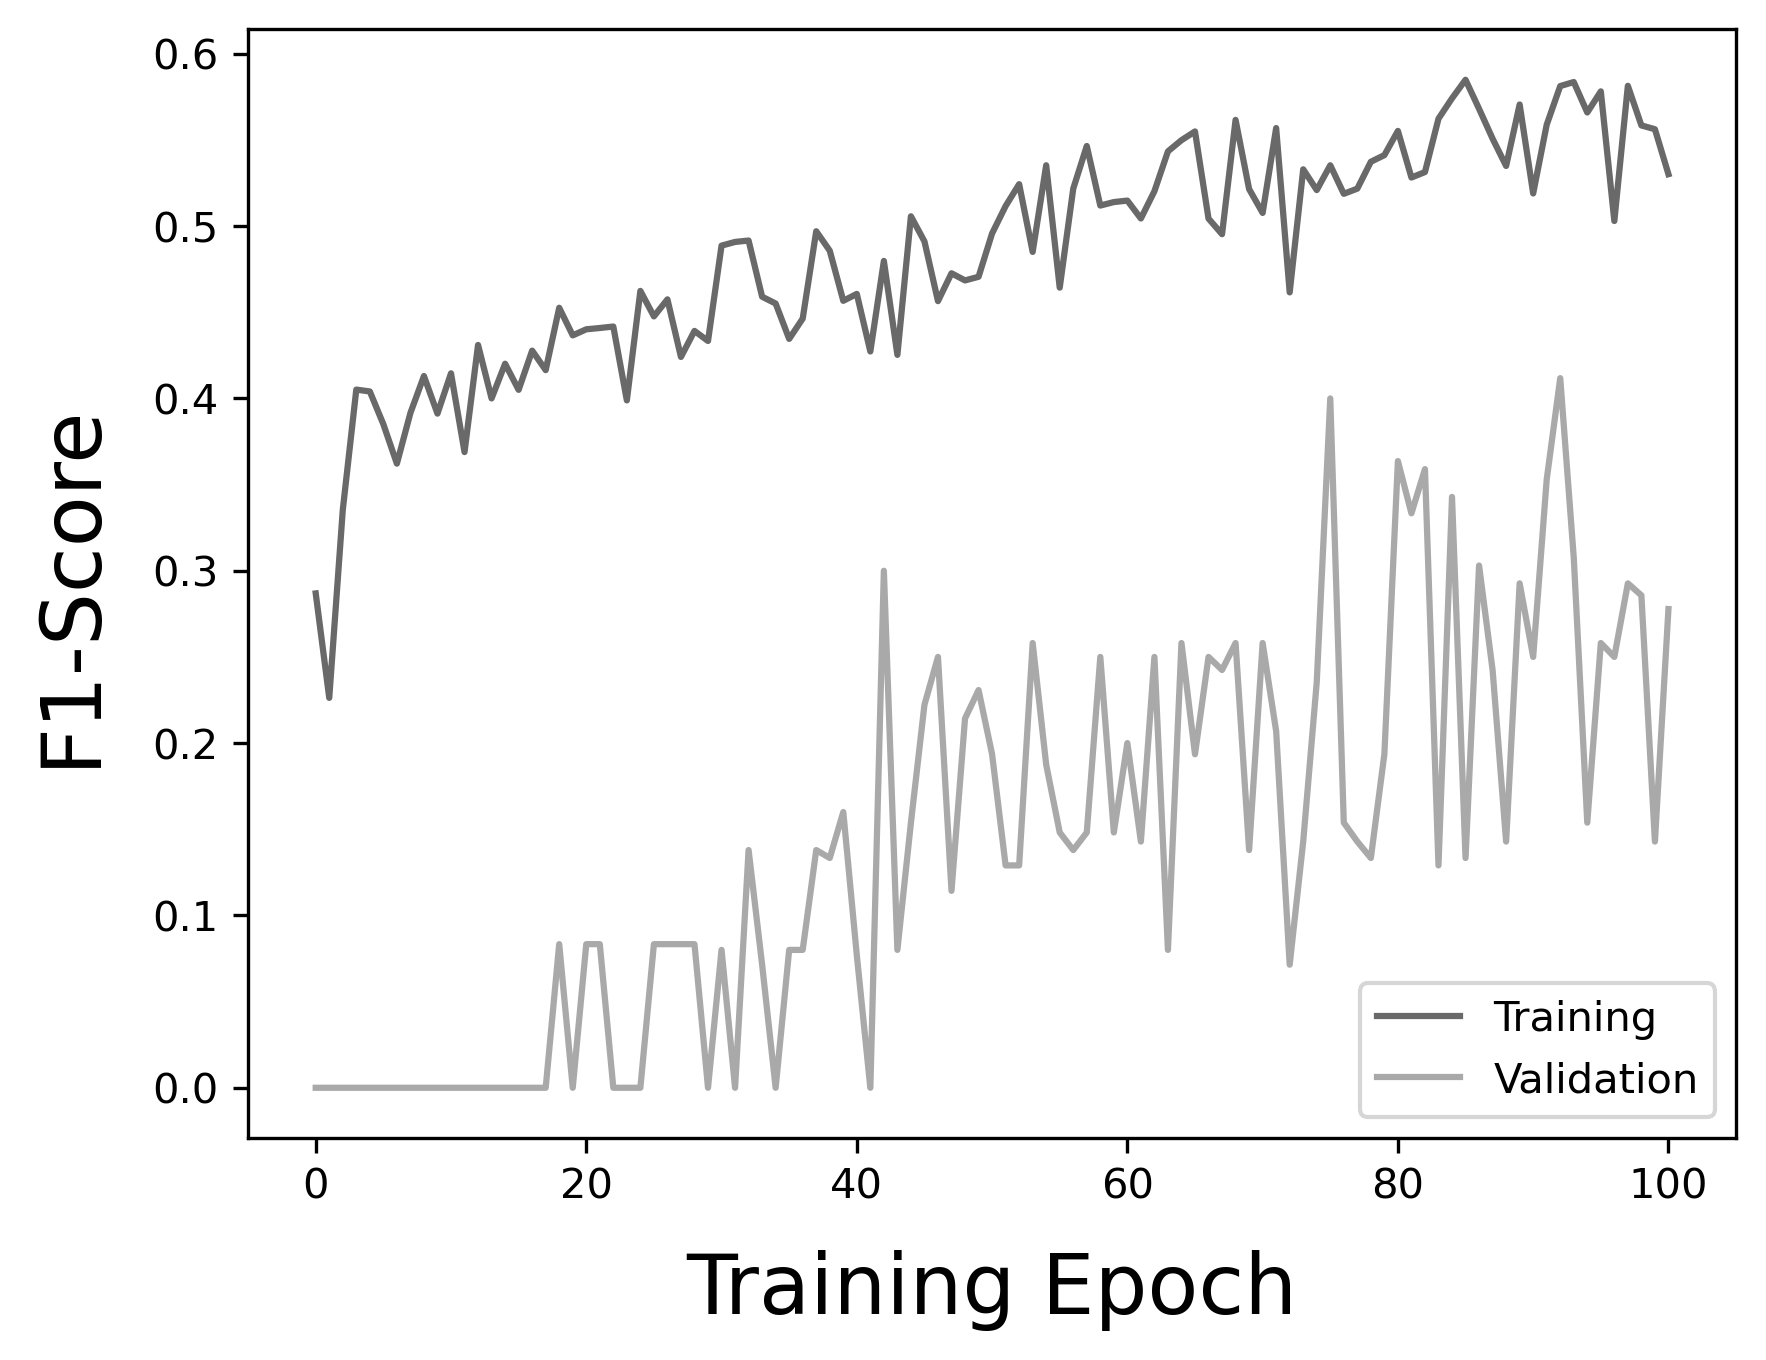
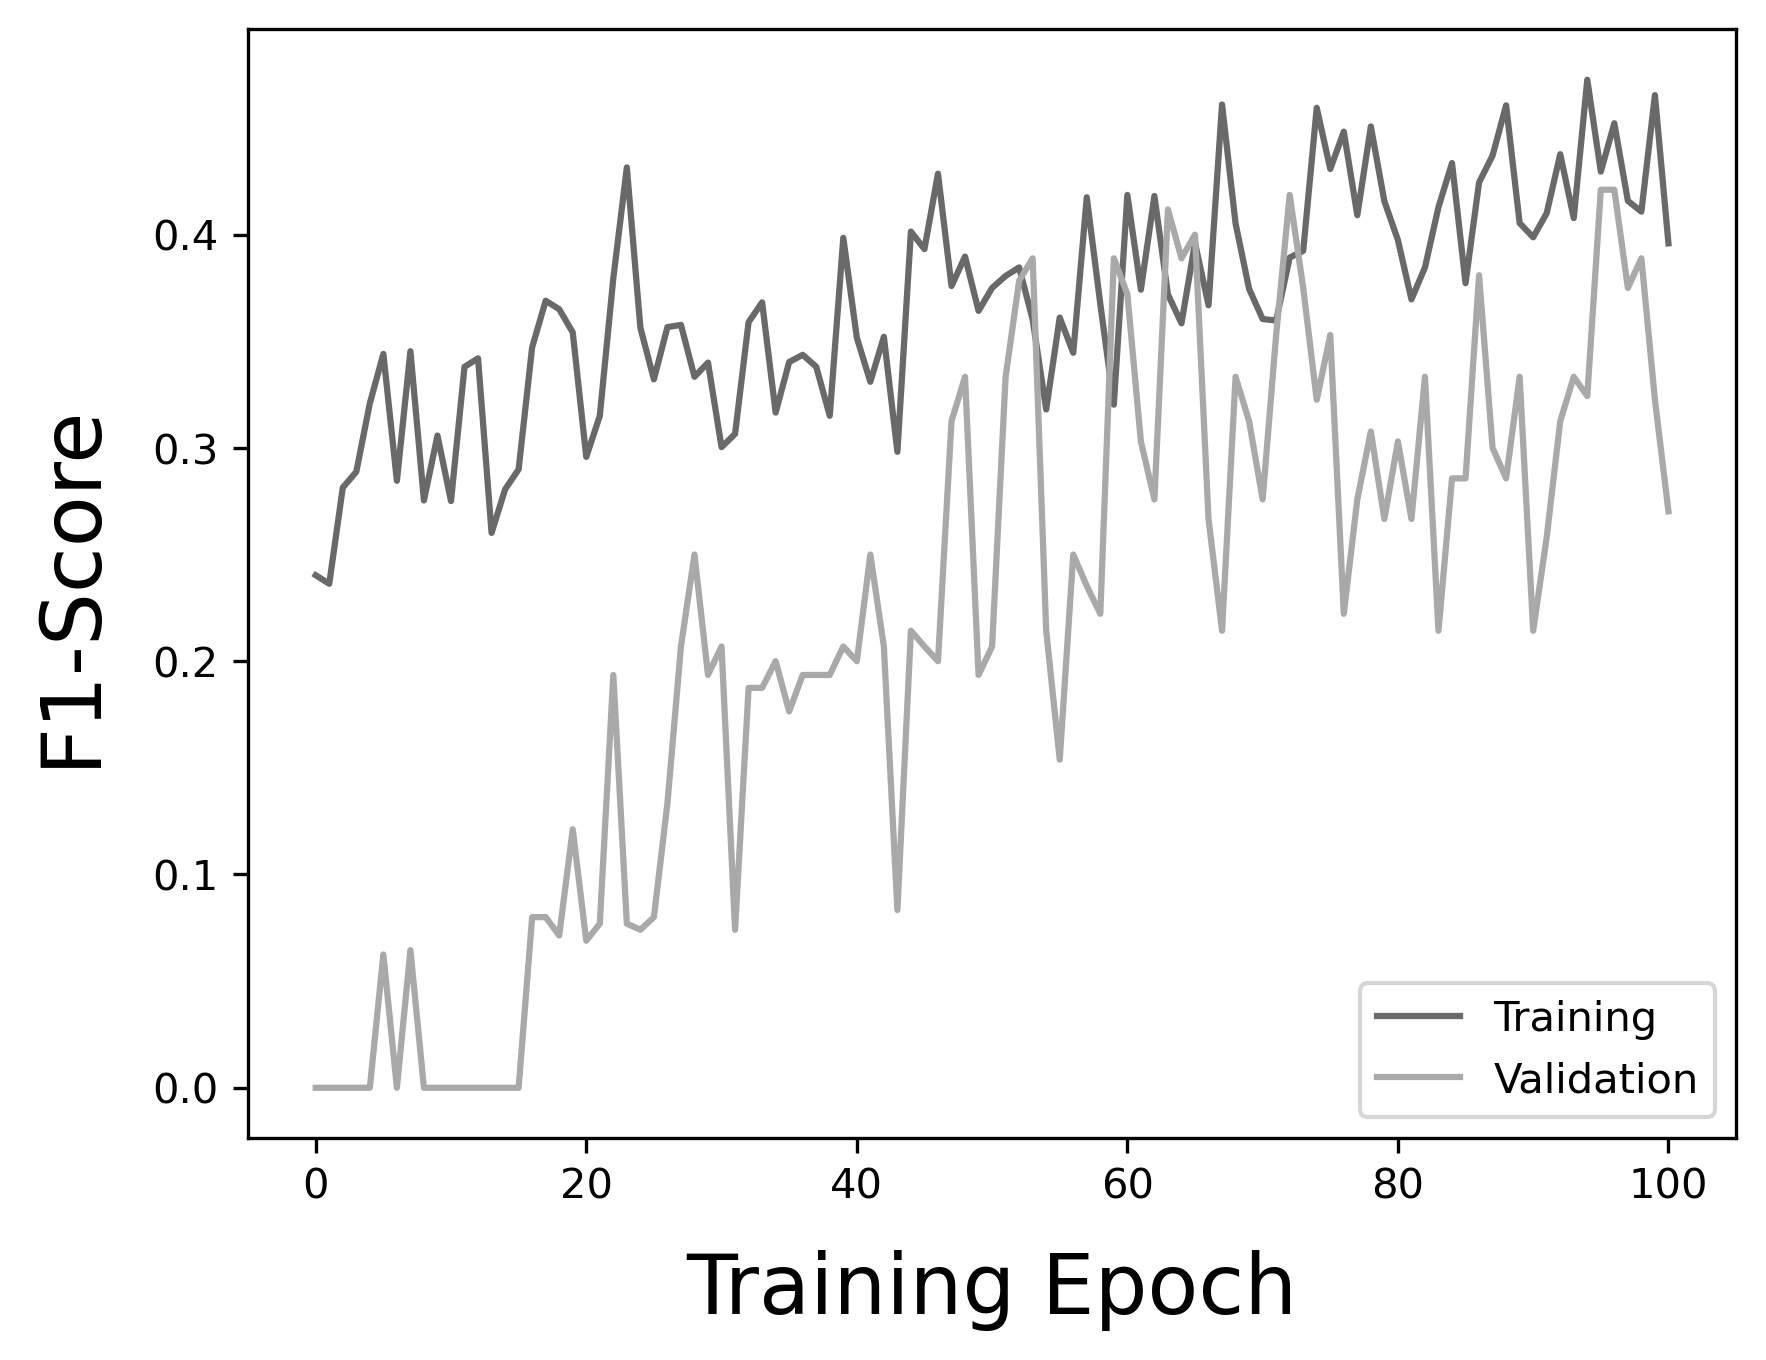
Add prototype learning to MIL model

diff --git a/train.py b/train.py
@@ -67,13 +67,12 @@ class Trainer:
     def __init__(
             self, 
             model: nn.Module, 
-            loss_fn: nn.Module,
             backbone: str, 
             amp: bool,
             dataloaders: dict, 
             learning_rate: float, 
             weight_decay: float,
-            weights: torch.Tensor,
+            pos_weight: float,
             output_dir: str,
             ) -> None:
 
@@ -102,9 +101,11 @@ class Trainer:
         self.output_dir = output_dir
         self.loss_fn = loss_fn
 
-        model_params, loss_params = self.model.parameters(), self.loss_fn.parameters()
+        model_params = self.model.parameters()
         self.optimizer = optim.AdamW(model_params, lr=learning_rate, weight_decay=weight_decay)
-        self.loss_optimizer = optim.AdamW(loss_params, lr=learning_rate * 10)
+
+        self.bce_loss = nn.BCEWithLogitsLoss(pos_weight=torch.Tensor([pos_weight])).to(self.gpu_id)
+        self.kl_loss = nn.KLDivLoss(reduction='batchmean', log_target=True).to(self.gpu_id)
 
     def save_output(
             self, 
@@ -186,8 +187,8 @@ class Trainer:
                 #     x_mask=input_mask,
                 #     encodings=encodings,
                 #     batch_size=batch_size)
-                feats, logits = self.model(inputs)
-                loss = self.loss_fn(logits, feats, labels)
+                logits, euc_log, att_log = self.model(inputs)
+                loss = self.bce_loss(logits.squeeze(1), labels.float()) + self.kl_loss(euc_log, att_log)
                 loss = loss / accum_steps
             
             self.scaler.scale(loss).backward()
@@ -196,11 +197,8 @@ class Trainer:
     
             if ((step + 1) % accum_steps == 0) or (step + 1 == len(self.dataloaders['train'])):
                 self.scaler.step(self.optimizer)
-                self.scaler.step(self.loss_optimizer)
                 self.scaler.update()
-
                 self.optimizer.zero_grad(set_to_none=True)
-                self.loss_optimizer.zero_grad(set_to_none=True)
                 # self.scheduler.step()
 
                 if self.gpu_id == 0:
@@ -245,8 +243,8 @@ class Trainer:
                     #     x=inputs,
                     #     encodings=encodings,
                     #     batch_size=1)
-                    feats, logits = self.model(inputs)
-                    loss = self.loss_fn(logits, feats, labels)
+                    logits, euc_log, att_log = self.model(inputs)
+                    loss = self.bce_loss(logits.squeeze(1), labels.float()) + self.kl_loss(euc_log, att_log)
 
                 running_loss += loss.item()
                 metric.update(logits.squeeze(1), labels)
@@ -482,8 +480,9 @@ def load_train_objs(
     label_dict = {x: [patient['label'] for patient in split_dict[x]] for x in ['train', 'val']}
 
     metric = torchmetrics.F1Score(task=('multiclass' if args.num_classes > 2 else 'binary'), num_classes=2, ignore_index=99)
-    values, counts = np.unique(label_dict['train'], return_counts=True)
-    weights = len(label_dict['train']) / (args.num_classes * torch.Tensor([class_count for class_count in counts]))
+    # values, counts = np.unique(label_dict['train'], return_counts=True)
+    # weights = len(label_dict['train']) / (args.num_classes * torch.Tensor([class_count for class_count in counts]))
+    pos_weight = 3.0
     if args.distributed:
         split_dict = {x: partition_dataset_classes(
             data=split_dict[x],
@@ -524,7 +523,7 @@ def load_train_objs(
         num_workers=0,
         drop_last=(True if x == 'train' else False)) for x in ['train','val']}
 
-    return dataloader, metric, weights
+    return dataloader, metric, pos_weight
 
 def data_transforms(
         dataset: str,
@@ -644,7 +643,7 @@ def main(
         device_id = torch.device('cuda' if torch.cuda.is_available() else 'cpu')
         accum_steps = args.total_batch_size / args.batch_size
 
-    dataloader, metric, weights = load_train_objs(device_id, args)
+    dataloader, metric, pos_weight = load_train_objs(device_id, args)
     set_track_meta(False)
     # if args.backbone == 'resnet10':
     #     model = resnet10(pretrained=True, n_input_channels=len(args.mod_list), num_classes=args.num_classes, shortcut_type='B')
@@ -657,27 +656,22 @@ def main(
         backbone=args.backbone,
         num_channels=1,
         num_spatial_dims=3,
-        num_classes=1,
+        num_classes=args.num_classes,
         mil_mode=args.mil_mode,
         truncate_layer=None,
         pretrained=args.pretrained)
     # model = SequenceNet(model, num_classes=2, dropout=0.1)
     model.metric = metric
-    feat_dim = 512 if args.backbone == 'resnet10' else 2048 if args.backbone == 'resnet50' else 384
-    loss_fn = ContrastiveCenterBCELoss(feat_dim=feat_dim, num_classes=args.num_classes, lambda_c=0.1, pos_weight=3.0)
     if args.distributed:
         model = nn.SyncBatchNorm.convert_sync_batchnorm(model) if args.backbone != 'swinvit' else model
-        model, loss_fn = model.to(device_id), loss_fn.to(device_id)
+        model = model.to(device_id)
         model = nn.parallel.DistributedDataParallel(
             model, 
-            device_ids=[device_id])
-        loss_fn = nn.parallel.DistributedDataParallel(
-            loss_fn, 
             device_ids=[device_id])
     else:
         model = model.to(device_id)
     # Train the model using the training data and validate the model on the validation data following each epoch.
-    trainer = Trainer(model, loss_fn, args.backbone, args.amp, dataloader, learning_rate, args.weight_decay, weights, args.results_dir)
+    trainer = Trainer(model, args.backbone, args.amp, dataloader, learning_rate, args.weight_decay, pos_weight, args.results_dir)
     trainer.training_loop(metric, args.min_epochs, args.val_interval, args.batch_size, accum_steps, args.patience)
     # Cleanup distributed training.
     if args.distributed:

diff --git a/models/milnet.py b/models/milnet.py
@@ -3,6 +3,7 @@ from __future__ import annotations
 from typing import cast
 import torch
 import torch.nn as nn
+import torch.nn.functional as F
 import numpy as np
 from models.resnet import resnet18, resnet34, resnet50
 from models.resnet3d import resnet10 as resnet10_3d
@@ -128,7 +129,9 @@ class MILNet(nn.Module):
         else:
             raise ValueError("Unsupported mil_mode: " + str(mil_mode))
 
-        self.myfc = nn.Linear(nfc, num_classes)
+        fc_classes = num_classes if num_classes > 2 else 1
+        self.myfc = nn.Linear(nfc, fc_classes)
+        self.prototype = nn.Parameter(torch.randn(num_classes, nfc))
         self.net = net
         self.nfc = nfc
             
@@ -143,17 +146,20 @@ class MILNet(nn.Module):
 
         if self.mil_mode == "mean":
             x = self.myfc(x)
-            out = torch.mean(x, dim=1)
+            x = torch.mean(x, dim=1)
+            return x
 
         elif self.mil_mode == "max":
             x = self.myfc(x)
-            out, _ = torch.max(x, dim=1)
+            x, _ = torch.max(x, dim=1)
+            return x
 
         elif self.mil_mode == "att":
             a = self.attention(x)
             a = torch.softmax(a, dim=1)
             x = torch.sum(x * a, dim=1)
-            out = self.myfc(x)
+            x = self.myfc(x)
+            return x, a
 
         elif self.mil_mode == "att_trans" and self.transformer is not None:
             x = x.permute(1, 0, 2)
@@ -163,7 +169,8 @@ class MILNet(nn.Module):
             a = self.attention(x)
             a = torch.softmax(a, dim=1)
             x = torch.sum(x * a, dim=1)
-            out = self.myfc(x)
+            x = self.myfc(x)
+            return x, a 
 
         elif self.mil_mode == "att_trans_pyramid" and self.transformer is not None:
             l1 = torch.mean(self.extra_outputs["layer1"], dim=(2, 3)).reshape(sh[0], sh[1], -1).permute(1, 0, 2)
@@ -183,24 +190,40 @@ class MILNet(nn.Module):
             a = self.attention(x)
             a = torch.softmax(a, dim=1)
             x = torch.sum(x * a, dim=1)
-            out = self.myfc(x)
+            x = self.myfc(x)
+            return x, a
 
         else:
             raise ValueError("Wrong model mode" + str(self.mil_mode))
 
-        return x, out
+    def calc_euclidean(self, feats: torch.Tensor, att: torch.Tensor) -> torch.Tensor:
+        
+        sh = feats.shape
+        prototype = self.prototype.expand(sh[0] * sh[1], -1, -1).to(feats.device)
+        feats = feats.reshape(sh[0] * sh[1], -1)
+        att = att.reshape(sh[0] * sh[1], -1)
 
-    def forward(self, x: torch.Tensor, no_head: bool = False) -> torch.Tensor:
+        euc = torch.cdist(feats, prototype, p=2)
+        euc_log = F.log_softmax(euc[[0]].squeeze(0), dim=1)
+
+        att = torch.cat((1 - att, att), dim=1)
+        att_log = F.log_softmax(att, dim=1)
+        return euc_log, att_log
+
+    def forward(self, x: torch.Tensor, no_head: bool = False, no_euclidean: bool = False) -> torch.Tensor:
         sh = x.shape
         if len(sh) == 5:
             x = x.reshape(sh[0] * sh[1], sh[2], sh[3], sh[4])
         elif len(sh) == 6:
             x = x.reshape(sh[0] * sh[1], sh[2], sh[3], sh[4], sh[5])
 
-        x = self.net(x)
-        x = x.reshape(sh[0], sh[1], -1)
+        feats = self.net(x)
+        feats = feats.reshape(sh[0], sh[1], -1)
 
         if not no_head:
-            feats, logits = self.calc_head(x)
+            out, att = self.calc_head(feats)
 
-        return feats, logits
+        if not no_euclidean:
+            euc_log, att_log = self.calc_euclidean(feats, att)
+
+        return out, euc_log, att_log

diff --git a/losses/ccloss.py b/losses/ccloss.py
@@ -28,7 +28,7 @@ class ContrastiveCenterLoss(nn.Module):
 
 class ContrastiveCenterBCELoss(ContrastiveCenterLoss):
 
-    def __init__(self, feat_dim, num_classes, lambda_c=1.0, pos_weight=3.0):
+    def __init__(self, feat_dim: int, num_classes: int, lambda_c: float = 1.0, pos_weight: float | None = None):
         super().__init__(
             feat_dim=feat_dim,
             num_classes=num_classes,
@@ -37,6 +37,7 @@ class ContrastiveCenterBCELoss(ContrastiveCenterLoss):
         self.pos_weight = torch.Tensor([pos_weight])
 
     def forward(self, logits, feats, labels):
+
         cc_loss = super().forward(feats, labels)
-        bce_loss = F.binary_cross_entropy_with_logits(logits.squeeze(1), labels.float(), pos_weight=self.pos_weight)
+        bce_loss = F.binary_cross_entropy_with_logits(logits.squeeze(1), labels.float(), pos_weight=self.pos_weight.to(feats.device))
         return bce_loss + cc_loss
